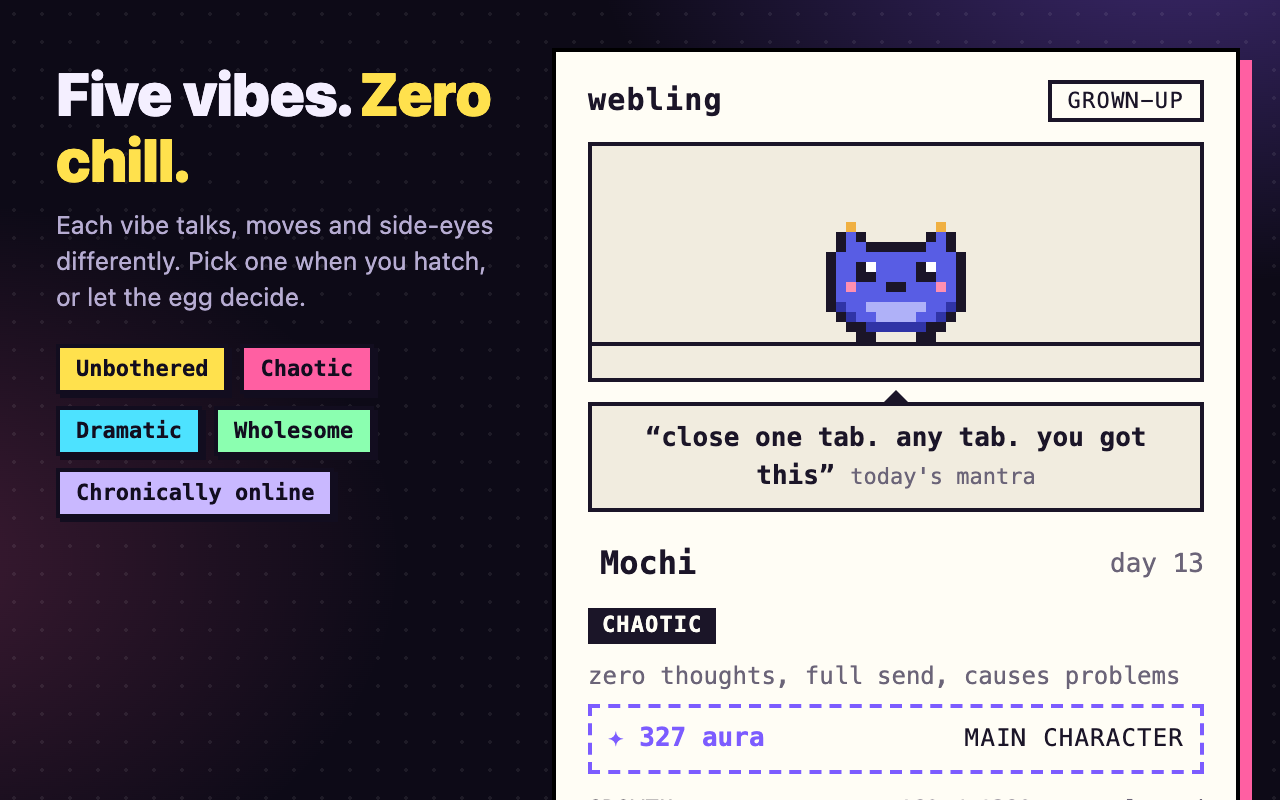
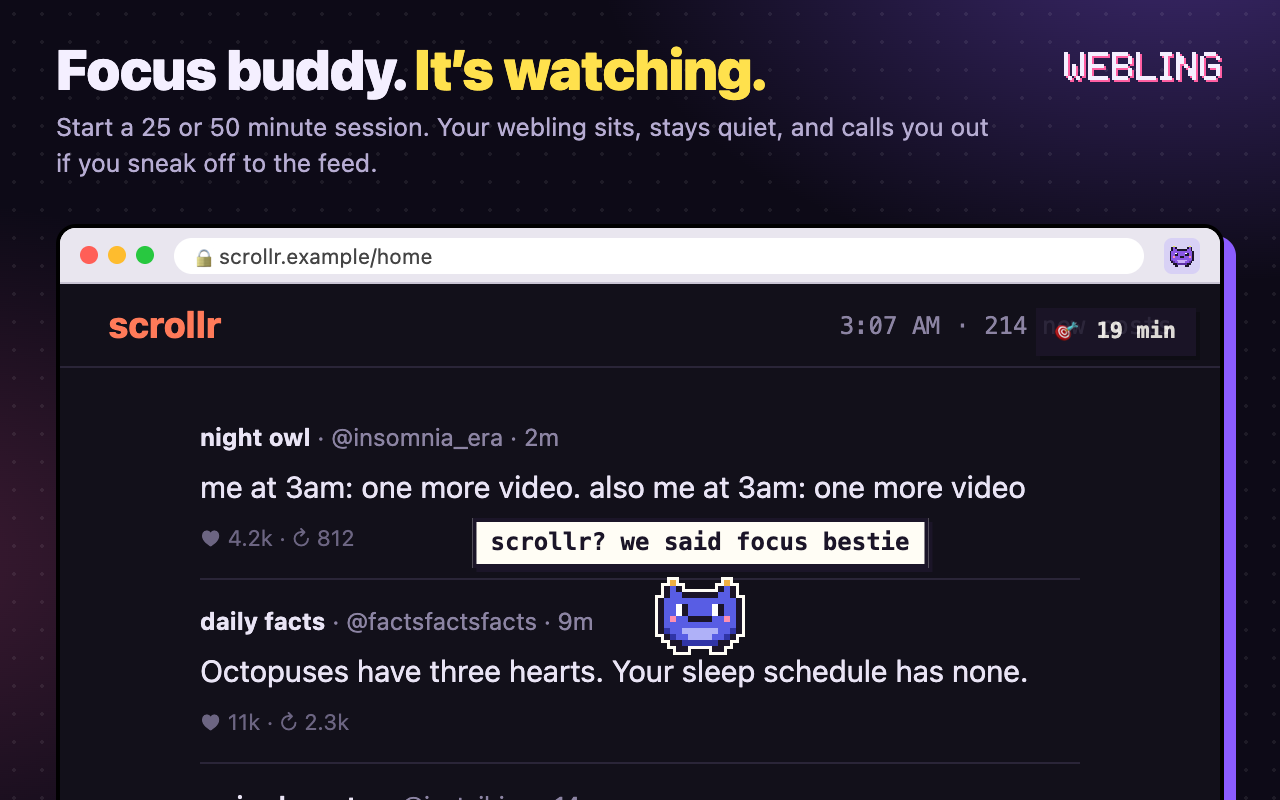
Chrome Web Store release plan, 1.0.0, and a release check
- store/RELEASE.md: account, submitting with publishing held back, what
  review looks at and where we stand, launch day, the update routine and
  the rules that keep updates painless.
- npm run release: checks versions, tags, a clean tree, presence vs the
  listing and the unit tests, then builds dist/webling-<version>.zip.
- Version 1.0.0.
- Screenshots 4 and 5 now show focus buddy and Wrapped.
- storeUrl in config.js: once set, the site's "Hatch yours" becomes an
  Add to Chrome button instead of the zip steps.

diff --git a/store/shot.html b/store/shot.html
@@ -4,8 +4,8 @@
   <meta charset="utf-8">
   <title>Webling store screenshot</title>
   <!-- One Chrome Web Store screenshot: laid out at 640×400 and captured at 2x (1280×800).
-       ?n=1..5 picks the shot. scripts/store-assets.mjs first captures the mock page with the real extension
-       running on it (the extension skips iframes, so it can't run in here), then puts that picture in #page. -->
+       ?n=1..5 picks the shot. scripts/store-assets.mjs puts a picture in #page: a mock page captured with the real
+       extension running on it (the extension skips iframes, so it can't run in here), or a Wrapped card. -->
   <style>
     :root { --night: #0d0a17; --line: #2e2547; --text: #f4efff; --muted: #b6acd2; --violet: #8b5cff; --pink: #ff5fa2;
       --acid: #ffe14d; --cyan: #4de2ff; --ink: #120d1f; --sans: system-ui, -apple-system, 'Segoe UI', Roboto, sans-serif;
@@ -36,19 +36,10 @@
     .ext img { width: 14px; height: 14px; image-rendering: pixelated; }
     .browser #page { display: block; width: 580px; height: 258px; }
 
-    /* shot 4: the popup on the right, the vibes on the left */
-    .side .cap { width: 228px; top: 30px; }
-    .side h1 { font-size: 30px; margin-bottom: 8px; }
-    .chips { display: flex; flex-wrap: wrap; gap: 6px; margin-top: 14px; }
-    .chips span { font: 700 11px var(--mono); padding: 4px 8px; border: 2px solid var(--ink); color: var(--ink); box-shadow: 2px 2px 0 var(--ink); }
-    .popup { position: absolute; left: 276px; top: 24px; width: 344px; height: 400px; border: 2px solid #000; border-bottom: 0;
-      box-shadow: 6px 6px 0 var(--pink); overflow: hidden; background: #fffdf5; }
-    .popup #page { display: block; width: 340px; height: 376px; }
-
-    /* shot 5: the share card, at its real size in device pixels */
+    /* shot 5: a Wrapped card, at its real size in device pixels */
     .card-shot .cap { width: 584px; }
     .card-shot .wordmark { display: none; }
-    #card { position: absolute; left: 20px; top: 78px; width: 600px; height: 315px; border: 2px solid #000; box-shadow: 5px 5px 0 var(--cyan); }
+    .card-shot #page { position: absolute; left: 20px; top: 78px; width: 600px; height: 315px; border: 2px solid #000; box-shadow: 5px 5px 0 var(--cyan); }
   </style>
 </head>
 <body>
@@ -62,11 +53,11 @@
       2: { title: 'Pop-ups don’t stand <em>a chance.</em>', url: 'fernhouse.example/monstera',
         sub: 'Newsletter traps, flash sales and paywall nags get eaten too, with a roast on the side. Wanted that one? Spit it out.' },
       3: { title: 'It has <em>takes.</em>', url: 'scrollr.example/home',
-        sub: 'It notices LinkedIn, midnight shopping and 3am doomscrolling, and it will say something about it. 300+ lines.' },
-      4: { layout: 'side', title: 'Five vibes. <em>Zero chill.</em>',
-        sub: 'Each vibe talks, moves and side-eyes differently. Pick one when you hatch, or let the egg decide.' },
-      5: { layout: 'card', title: 'Grows up. Farms aura. <em>Posts receipts.</em>',
-        sub: 'Baby to legend, NPC to final boss. Every pet gets its own colours and a share card to flex.' },
+        sub: 'It notices LinkedIn, midnight shopping and 3am doomscrolling, and says something about it in one of five vibes.' },
+      4: { title: 'Focus buddy. <em>It’s watching.</em>', url: 'scrollr.example/home',
+        sub: 'Start a 25 or 50 minute session. Your webling sits, stays quiet, and calls you out if you sneak off to the feed.' },
+      5: { layout: 'card', title: 'Your week, <em>wrapped.</em>',
+        sub: 'Every week a verdict on your week online, from 3am menace to offline icon. Share it as a link.' },
     };
     const shot = SHOTS[new URLSearchParams(location.search).get('n')] || SHOTS[1];
     document.getElementById('title').innerHTML = shot.title;
@@ -79,27 +70,9 @@
             <div class="ext"><img src="../extension/icons/32.png" alt=""></div></div>
           <img id="page" alt="A web page with a webling on it">
         </div>`);
-    } else if (shot.layout === 'side') {
-      document.body.classList.add('side');
-      const colors = ['#ffe14d', '#ff5fa2', '#4de2ff', '#8bffb0', '#c9b8ff'];
-      document.querySelector('.cap').insertAdjacentHTML('beforeend', `<div class="chips">${
-        ['Unbothered', 'Chaotic', 'Dramatic', 'Wholesome', 'Chronically online'].map((v, i) => `<span style="background:${colors[i]}">${v}</span>`).join('')}</div>`);
-      document.body.insertAdjacentHTML('beforeend', `<div class="popup"><img id="page" alt="The Webling popup"></div>`);
     } else {
       document.body.classList.add('card-shot');
-      document.body.insertAdjacentHTML('beforeend', '<img id="card" alt="A webling share card">');
-      (async () => {
-        for (const f of ['shared/config.js', 'shared/sprite.js', 'shared/pet.js', 'shared/voice.js', 'popup/card.js']) {
-          await new Promise((ok) => { const s = document.createElement('script'); s.src = `../extension/${f}`; s.onload = ok; document.body.append(s); });
-        }
-        const pet = Object.assign(WL.model.newPet(Date.now() - 94 * 864e5), {
-          name: 'Mochi', seed: 'mochi7', vibe: 'chaotic', hatched: true, xp: 1820, aura: 3140,
-          stats: { cookies: 613, popups: 388, sites: 412, boops: 0, booped: 0 },
-        });
-        pet.hatchedAt = pet.born;
-        document.getElementById('card').src = WL.card.render(pet, 412).toDataURL();
-        document.documentElement.dataset.ready = '1';
-      })();
+      document.body.insertAdjacentHTML('beforeend', '<img id="page" alt="A Webling Wrapped card">');
     }
   </script>
 </body>

diff --git a/site/index.html b/site/index.html
@@ -129,8 +129,9 @@
 
     <section class="get" id="get" aria-labelledby="get-title">
       <h2 id="get-title">Hatch yours.</h2>
-      <p class="sub">Chrome Web Store listing is on its way. Until then it takes about a minute by hand:</p>
-      <ol class="steps">
+      <p class="sub" id="get-sub">Chrome Web Store listing is on its way. Until then it takes about a minute by hand:</p>
+      <p class="store" id="get-store" hidden><a class="btn primary" id="store-link" href="#">Add to Chrome, it's free</a></p>
+      <ol class="steps" id="get-steps">
         <li><a class="btn primary" href="/webling-extension.zip" download>Download the extension</a> <span>and unzip it.</span></li>
         <li>Open <code>chrome://extensions</code> and switch on <b>Developer mode</b>.</li>
         <li>Click <b>Load unpacked</b>, pick the folder. Name your egg. Choose a vibe (or let fate decide).</li>

diff --git a/site/site.js b/site/site.js
@@ -329,7 +329,17 @@
 
   // ---- pixel lettering ----
   // ---- hatch, bury the page, let the pet loose ----
+  // Once the store listing is live (storeUrl in shared/config.js), installing is one click there.
+  function storeLink() {
+    if (!WL.config.storeUrl) return;
+    $('#get-sub').textContent = 'Free on the Chrome Web Store. It updates itself.';
+    $('#store-link').href = WL.config.storeUrl;
+    $('#get-store').hidden = false;
+    $('#get-steps').hidden = true;
+  }
+
   async function main() {
+    storeLink();
     await devInstall();
     state = await send({ type: 'state' });
     const returning = state.pet.hatched;

diff --git a/extension/shared/config.js b/extension/shared/config.js
@@ -7,6 +7,8 @@
     presenceUrl: '',
     // Where share cards send people.
     shareUrl: 'https://webling.vercel.app',
+    // The Chrome Web Store listing, once it's approved. While empty the site offers the zip instead.
+    storeUrl: '',
     // Most other weblings drawn on one page; the count chip still shows everyone.
     maxGhosts: 12,
     // Draw a light outline around pets (for dark pages that set it, like the landing page).

diff --git a/store/RELEASE.md b/store/RELEASE.md
@@ -1,0 +1,111 @@
+# Releasing Webling on the Chrome Web Store
+
+The plan for 1.0, then how every update after it works. What to paste into the dashboard is in
+[listing.md](listing.md); the images are in [assets/](assets/).
+
+## 1.0 at a glance
+
+| Step | Who | When | Done when |
+| --- | --- | --- | --- |
+| 1. Prep the package, listing, images, privacy policy | in this repo | done | `npm run release` passes |
+| 2. Developer account | you | once, ~10 min | dashboard opens, email verified |
+| 3. Submit, with publishing held back | you | ~20 min | status "Pending review" |
+| 4. Review | Google | usually 1–3 days, can be longer | status "Approved" (or a rejection email) |
+| 5. Launch day: publish, switch the site, tell people | you + this repo | your pick | listed, site says "Add to Chrome" |
+
+## 1. Prep (done)
+
+- Version **1.0.0** in `extension/manifest.json` and `package.json`.
+- Listing copy, permission justifications and privacy answers: `listing.md`.
+- Five 1280×800 screenshots (eats banners, eats pop-ups, takes, focus buddy, Wrapped), the 440×280 and
+  1400×560 promo tiles: `assets/` (remake with `npm run store`).
+- Privacy policy live at <https://webling.vercel.app/privacy>.
+- Presence (multiplayer) is off, and nothing in the listing promises it.
+- No permission that shows users a warning: only `storage`, plus a keyboard shortcut. Host access comes from
+  the content script on every site, which is what the review will look at hardest (see step 4).
+
+Before submitting, run:
+
+```bash
+npm run release
+```
+
+It checks the versions match and aren't already released, the tree is committed, presence matches what the
+listing says, and the unit tests pass, then writes `dist/webling-1.0.0.zip`. It uploads nothing.
+
+## 2. Developer account (you)
+
+1. Go to <https://chrome.google.com/webstore/devconsole> with the Google account that should own Webling.
+   Use one you'll keep; moving an item between accounts later is a support request.
+2. Pay the one-time $5 registration fee and accept the developer agreement.
+3. Account tab: set a contact email and verify it. The publisher name shown on the listing comes from here.
+
+## 3. Submit (you)
+
+1. **New item** → upload `dist/webling-1.0.0.zip`.
+2. Fill **Store listing**, **Privacy practices** and **Distribution** from `listing.md`, top to bottom.
+3. Visibility: **Public**. (Unlisted only hides it from search; it still needs the same review.)
+4. **Hold publishing:** before submitting, untick publishing automatically after review (the submit dialog
+   offers it). Approval then waits for you to press Publish, so launch day is your choice, not the reviewer's.
+5. Submit. You can't edit while it's in review; withdrawing puts you back in the queue.
+
+## 4. Review (Google)
+
+Most reviews take one to three days. Extensions that run on every site get a closer look and can take longer.
+What they check, and where we stand:
+
+| They look for | Us |
+| --- | --- |
+| Broad host access with a reason | Content script on http/https only; justification in `listing.md` explains the pet walks on the page and hides pop-ups locally. |
+| One clear purpose | A pet that lives on pages and eats pop-ups; everything else (takes, focus, Wrapped) is the pet. |
+| Claims that match the code | Multiplayer isn't mentioned; presence is off in the build. |
+| No remote code | All scripts are in the package. |
+| Honest data disclosure | Nothing collected; share links are user-initiated and the policy says what they carry. |
+
+If it's rejected, the email names the policy. Fix that one thing, bump the version (e.g. 1.0.1), run
+`npm run release`, upload, and reply in the dashboard explaining the change.
+
+## 5. Launch day
+
+1. Dashboard → **Publish**. The listing goes live shortly after.
+2. Copy the listing URL (`https://chromewebstore.google.com/detail/webling/<id>`) into `storeUrl` in
+   `extension/shared/config.js`, commit, push. The site's "Hatch yours" switches from the zip steps to an
+   **Add to Chrome** button. (The extension itself doesn't use `storeUrl`, so this needs no new upload.)
+3. Tag the release: `git tag v1.0.0 && git push origin v1.0.0`.
+4. Install it from the store yourself. It's a different extension from the unpacked one, so you'll hatch a
+   new pet. Uninstall the unpacked copy to avoid two pets on every page.
+5. Tell people: a roast link (`webling.vercel.app/r/linkedin.com`) shows the pet in the link preview, which
+   lands better than a plain store link.
+
+## Every update after 1.0
+
+1. Bump `version` in `extension/manifest.json` and `package.json` (1.0.0 → 1.1.0 for features, 1.0.1 for fixes).
+2. `npm run release`, then upload the zip to the existing item (Package → Upload new package) and submit.
+3. After approval Chrome updates everyone in the background within hours. Saved pets carry over.
+4. Tag it: `git tag v1.1.0 && git push origin v1.1.0`.
+
+Rules that keep updates painless:
+
+- **Don't add a permission that shows a warning** (more sites, tabs, history, downloads…). Chrome turns the
+  extension off for everyone until each user re-approves it, and many never do. Prefer designs like focus
+  buddy's, which needed none.
+- **Saves must keep loading.** Old pets lack newer fields; read missing ones as defaults (see `pet.js`).
+- **There's no rollback.** A bad release is fixed by shipping a higher version. If the dashboard offers a
+  partial rollout, use it for anything risky.
+- **Changing what data leaves the device** (say, turning presence on) means updating the privacy policy and
+  the Privacy practices tab in the same release. `store.test` fails if the policy and the build disagree.
+
+## After launch: what to watch
+
+- Dashboard → Ratings and reviews, and the support tab: reply to the first reviews quickly.
+- GitHub issues (the listing's support link).
+- Vercel → runtime errors for `/r` and `/w`, the share-link functions.
+- Pop-ups it fails to eat, or eats wrongly: add a case to `classify()` in `extension/content/eater.js` and
+  a test in `test/eater.e2e.test.mjs`.
+
+## Open decisions
+
+- **Launch date**, now that publishing waits for you.
+- **Pet export / import**, so people on the unpacked version (you included) can carry their pet over to the
+  store version. Worth doing before launch only if early testers have pets they care about.
+- **Category**: listing.md suggests Lifestyle → Just for Fun; pick whatever the dashboard offers closest.

diff --git a/store/listing.md b/store/listing.md
@@ -1,7 +1,7 @@
 # Chrome Web Store listing
 
 Copy and paste for the [Chrome Web Store Developer Dashboard](https://chrome.google.com/webstore/devconsole),
-field by field. The images are in `store/assets/` (regenerate them with `npm run store`), and the package
+field by field. The release plan and the steps around submitting are in [RELEASE.md](RELEASE.md). The images are in `store/assets/` (regenerate them with `npm run store`), and the package
 comes from `npm run zip` (`dist/webling-<version>.zip`).
 
 Written for launching **with presence off** (`presenceUrl: ''` in `extension/shared/config.js`). If presence is
@@ -14,7 +14,7 @@ policy first.
 
 | | |
 | --- | --- |
-| Upload | `dist/webling-0.1.0.zip` from `npm run zip` |
+| Upload | `dist/webling-1.0.0.zip` from `npm run zip` |
 | Name | Webling (from the manifest) |
 | Summary | From the manifest's `description` (132 characters max): *A tiny pixel pet that lives on your web pages. It eats cookie banners and pop-ups, and has opinions about your tabs.* |
 

diff --git a/README.md b/README.md
@@ -164,7 +164,9 @@ npm run build:site && node scripts/dev-server.mjs public
 
 ## Publishing to the Chrome Web Store
 
-Everything the dashboard asks for is in [`store/listing.md`](store/listing.md): the description, category,
+The release plan (account, submitting, review, launch day, updates) is [`store/RELEASE.md`](store/RELEASE.md);
+`npm run release` checks everything and builds the zip. Everything the dashboard asks for is in
+[`store/listing.md`](store/listing.md): the description, category,
 permission justifications, privacy-practices answers and a pre-submit checklist. The privacy policy is
 `site/privacy.html`, live at <https://webling.vercel.app/privacy>.
 
